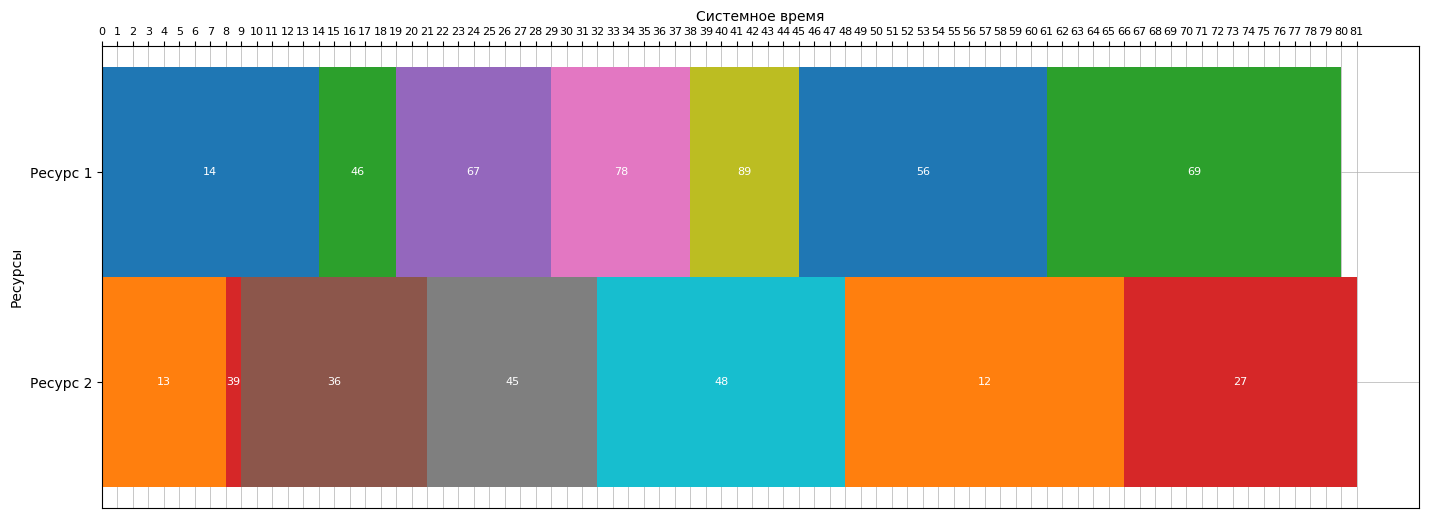
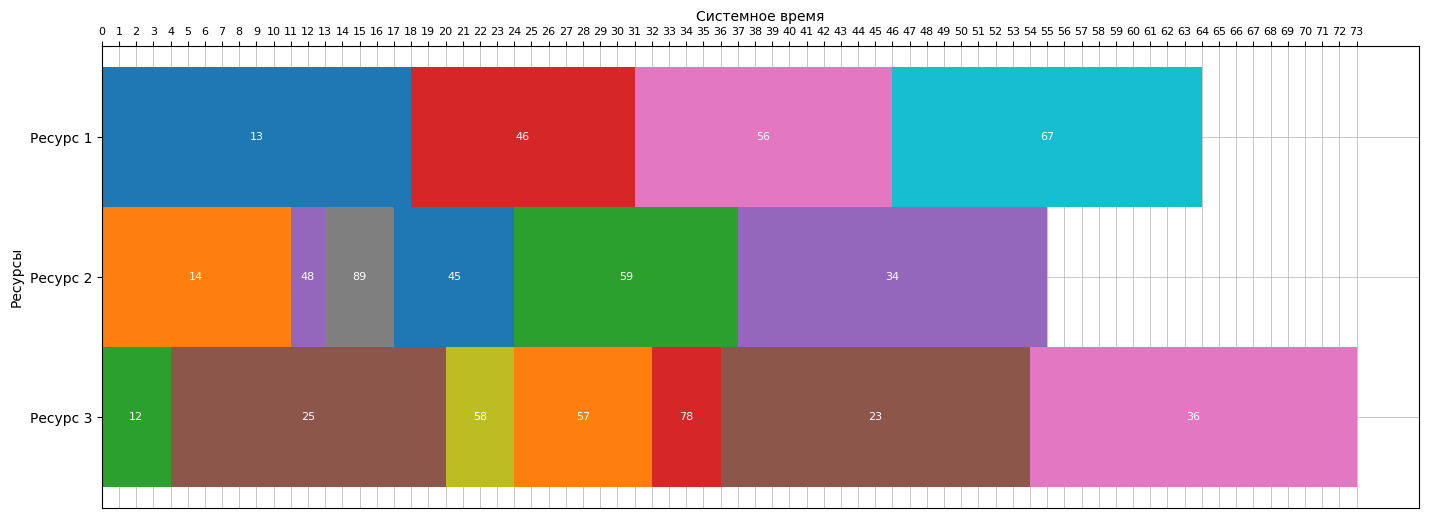
fix min max dynamical

diff --git a/tasks/scheduling_theory/task_data.py b/tasks/scheduling_theory/task_data.py
@@ -7,20 +7,20 @@ from tasks.scheduling_theory.solvers.scheduling_problem.rule import RuleType
 from util.graph import GraphFacade
 
 graph_edges = [
-    (1, 2, 18), (1, 3, 8), (1, 4, 14),
-    (2, 7, 15),
-    (3, 6, 12), (3, 9, 1),
-    (4, 5, 11), (4, 6, 5), (4, 8, 16),
-    (5, 6, 16),
-    (6, 7, 10), (6, 9, 19),
-    (7, 8, 9),
-    (8, 9, 7)
+    (1, 2, 7), (1, 3, 7), (1, 5, 4),
+    (2, 4, 7), (2, 5, 4),
+    (3, 5, 5),
+    (4, 7, 5),
+    (5, 7, 4), (5, 6, 7),
+    (6, 7, 7), (6, 8, 6), (6, 9, 7),
+    (7, 8, 7), (7, 9, 3),
+    (8, 9, 3)
 ]
-variant = 83
+variant = 3
 
-is_sidnev = False
+is_sidnev = True
 
-folder = Path(r"D:\Убежище\Университет\6 семестр\САПР\1\Сабонис\Шамаро")
+folder = Path(r"C:\Labs\САПР\Заказы\Довлатов")
 
 graph_img_path = Path(folder, "graph_img.png")
 
@@ -29,15 +29,15 @@ chart_folder = Path(Path.cwd(), "img")
 chart_filename = "gantt_chart.png"
 performers_number = 2
 
-intensity_limit = 0.6
+intensity_limit = 0.75
 
 standard_deviation = 0.05
 
-overtime_limit = 0.16
+overtime_limit = 0.1
 
 # time_limit_probability_percent = 18
 
-rule_types = [RuleType.MIN_DURATION, RuleType.MAX_DURATION, RuleType.MIN_RESERVE]
+rule_types = [RuleType.MIN_RESERVE, RuleType.MAX_DURATION, RuleType.MIN_RESERVE]
 
 graph: Graph = Graph.TupleList(directed=True, edges=graph_edges, weights=True)
 graph_facade: GraphFacade = GraphFacade(graph)

diff --git a/report/docx/omml.py b/report/docx/omml.py
@@ -1,12 +1,16 @@
+from pathlib import Path
+
 import latex2mathml.converter
 from lxml import etree
 from sympy import latex
+
+
 def latex2omml(latex_expr):
     mathml_output = latex2mathml.converter.convert(latex=latex_expr)
-    mml2omml_path = r'D:\Убежище\Университет\5 семестр\СисАнал\Скрипты\SADM_automation\report\docx\MML2OMML.XSL'
-
+    # mml2omml_path = r'D:\Убежище\Университет\5 семестр\СисАнал\Скрипты\SADM_automation\report\docx\MML2OMML.XSL'
+    mml2omml_path = Path(Path.cwd().parent.parent, "report", "docx", "MML2OMML.XSL")
     tree = etree.fromstring(mathml_output)
-    xslt = etree.parse(mml2omml_path)
+    xslt = etree.parse(mml2omml_path.as_posix())
     transform = etree.XSLT(xslt)
     new_dom = transform(tree)
     return new_dom.getroot()

diff --git a/tasks/scheduling_theory/document_template/fill_data/dynamical_moments_data.py b/tasks/scheduling_theory/document_template/fill_data/dynamical_moments_data.py
@@ -40,9 +40,9 @@ class DynamicalMomentsLatex:
                     variant_latex(nodes[j], weights[j])
                 )
             if is_min:
-                aggr_function = "min"
-            else:
                 aggr_function = "max"
+            else:
+                aggr_function = "min"
             step_2_vector = " \\\\ ".join(step_2_vector_parts)
             step_2 = f"{aggr_function} \\left( \\begin{{matrix}} {step_2_vector} \\end{{matrix}}\\right)"
             step_3_vector = " \\\\ ".join([str(elem) for elem in variants])
